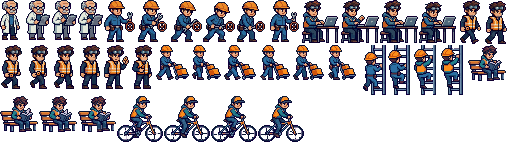
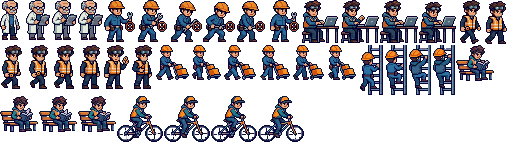
Fit the ladder, desk and bench to the street; a closed book over the library
The ladder now leans on the workshop's left pillar and stays put while he
climbs: its frames are lined up on the ladder's right rail rather than the
base (the first frame's feet stand beside the ladder, which shifted it).
His last two frames, in an orange vest and teal jacket, are repainted in
his overalls' blues, so he steps on, climbs, works at the top and comes
back down in one outfit.

The coder's desk moves in front of the control room's wall, left of the
door, inside the building's outline. The bicycle outside the library goes,
and the reader's bench takes its place.

The library's marker is always the small closed book, drawn at 1x like the
other markers, with a soft warm glow so it reads against the brick.

Claude-Session: https://claude.ai/code/session_0145MS9GtxuGoiHveWYnBXEJ

Changed region(s): [[0.6875, 0.3099, 1.0, 0.6761]]

diff --git a/src/scenes/World.js b/src/scenes/World.js
@@ -3,7 +3,7 @@ import { TUNING as T, VIEW, WORLD, PARALLAX, SCENERY, NPCS, STORAGE, BUILDING_SC
 
 // Where the "Press E" marker floats: just above head height, in front of the door.
 const MARKER_BOTTOM = WORLD.groundY - 46;
-const BOOK_MARKER_SCALE = 2;
+const BOOK_MARKER_SCALE = 1;
 import { controls, isFrozen, store } from "../state.js";
 import { currentHour, isCycling, lightAt, mix } from "../daynight.js";
 import { play } from "../audio.js";
@@ -296,18 +296,30 @@ export default class World extends Phaser.Scene {
       // project have none.
       if (project.draft) return { project, sprite, door, marker: null };
       const seen = visited.has(project.id);
-      // the library's marker is a little book, drawn on the characters' grid: 2x
+      // the library's marker is a little closed book, drawn on the characters' grid: 1x
       const [key, frame, scale] =
         project.kind === "publications"
-          ? [seen ? "book_open" : "book_closed", undefined, BOOK_MARKER_SCALE]
+          ? ["book_closed", undefined, BOOK_MARKER_SCALE]
           : ["props", project.kind === "about" ? "scroll" : seen ? "star" : "bulb", 1];
       const marker = this.add
         .image(door, MARKER_BOTTOM, key, frame)
         .setScale(scale)
         .setOrigin(0.5, 1)
         .setDepth(DEPTH.glow);
+      const bobbing = [marker];
+      if (project.kind === "publications") {
+        // the book is dark red on red brick: a soft warm glow behind it lifts it
+        // off the wall, as the bulb and star light themselves
+        const glow = this.add
+          .image(door, MARKER_BOTTOM - marker.displayHeight / 2, "glow_small")
+          .setScale(3)
+          .setAlpha(0.55)
+          .setBlendMode(Phaser.BlendModes.ADD)
+          .setDepth(DEPTH.glow - 0.1);
+        bobbing.push(glow);
+      }
       if (!this.calm) {
-        this.tweens.add({ targets: marker, y: marker.y - 4, duration: 1100, yoyo: true, repeat: -1, ease: "Sine.easeInOut" });
+        this.tweens.add({ targets: bobbing, y: "-=4", duration: 1100, yoyo: true, repeat: -1, ease: "Sine.easeInOut" });
       }
       return { project, sprite, door, marker };
     });
@@ -416,8 +428,7 @@ export default class World extends Phaser.Scene {
   openProject(project) {
     this.savePosition();
     const marker = this.buildings.find((b) => b.project === project)?.marker;
-    if (project.kind === "publications") marker?.setTexture("book_open");
-    else if (project.kind !== "about") marker?.setFrame("star");
+    if (project.kind !== "about" && project.kind !== "publications") marker?.setFrame("star");
     this.game.events.emit("open-project", project);
   }
 

diff --git a/src/config.js b/src/config.js
@@ -167,9 +167,8 @@ export const SCENERY = [
   // 2400 to 2720: solar array outside the simulation centre
   { x: 2540, sprite: "solar_panel", scale: 2 },
   { x: 2605, sprite: "lamp", scale: 2, glow: true },
-  // 2720 to 3040: parked outside the workshop
+  // 2720 to 3040: parked outside the workshop (the reader's bench is at 2920, in NPCS)
   { x: 2850, sprite: "cart", platform: true },
-  { x: 2920, sprite: "bicycle" },
   // the end of the street
   { x: 3150, sprite: "lamp", scale: 2, glow: true },
   { x: 3200, turbine: "small", scale: 2, back: true },
@@ -236,9 +235,13 @@ export const NPCS = [
       touch: "Hop up on the crates, the van or the cart. ▼ drops you back down.",
     },
   },
-  { x: 2165, sheet: "laptop", play: [0, 2, 0, 2, 1, 0, 2, 3], fps: 4 },
-  { x: 2672, sheet: "ladder", play: [0, 1], fps: 2.5 },
-  { x: 2972, sheet: "bench", play: [0, 1, 2, 3], fps: 6, rest: 2600 },
+  // at his desk against the control room's wall, left of its door
+  { x: 2050, sheet: "laptop", play: [0, 2, 0, 2, 1, 0, 2, 3], fps: 4 },
+  // the ladder leans on the workshop's left-hand pillar (x is its right rail);
+  // he steps on, climbs, works a while at the top and comes back down
+  { x: 2660, sheet: "ladder", play: [0, 1, 2, 3, 3, 3, 3, 3, 3, 2, 1, 0], fps: 2.5, rest: 2500 },
+  // reading on a bench outside the library
+  { x: 2920, sheet: "bench", play: [0, 1, 2, 3], fps: 6, rest: 2600 },
   { sheet: "bike", ride: { speed: 70, x: 300 }, play: [0, 1, 2, 3], fps: 8 },
 ];
 export const TALK_RANGE = 64; // how close you must be for an NPC to speak
@@ -270,9 +273,8 @@ export const ASSETS = {
     bg_city_lights: "bg_city_lights.png",
     bg_hills_lights: "bg_hills_lights.png",
     bg_beacons: "bg_beacons.png",
-    // the library's door marker: a closed book, open once visited
+    // the library's door marker: a closed book
     book_closed: "book/closed.png",
-    book_open: "book/open.png",
   },
   json: {
     npcs_meta: "npcs_meta.json",

diff --git a/tools/process_assets.py b/tools/process_assets.py
@@ -841,14 +841,15 @@ def books():
 # tall, so they draw at 1x next to the player). Each row is one animation, its
 # frames in equal columns. Rows: (sheet, y0, y1, columns, name, frames used,
 # anchor). The anchor is what holds still between frames: "head" for people who
-# walk, "base" for people with a desk, bench, ladder or valve.
+# walk, "base" for people with a desk, bench or valve, "rail" for the ladder
+# (its right-hand rail, so the ladder stays put while he climbs).
 NPC_ROWS = [
     ("npcs_a.jpg", 30, 246, 6, "elder", 4, "base"),
     ("npcs_a.jpg", 270, 498, 6, "valve", 6, "base"),
     ("npcs_a.jpg", 521, 753, 4, "laptop", 4, "base"),
     ("npcs_a.jpg", 772, 1009, 8, "vest", 8, "head"),
     ("npcs_b.jpg", 35, 226, 6, "trolley", 6, "base"),
-    ("npcs_b.jpg", 246, 517, 4, "ladder", 4, "base"),
+    ("npcs_b.jpg", 246, 517, 4, "ladder", 4, "rail"),
     ("npcs_b.jpg", 542, 738, 4, "bench", 4, "base"),
     ("npcs_b.jpg", 768, 1014, 4, "bike", 4, "base"),
 ]
@@ -890,14 +891,62 @@ def sprite_masked(sheet, box):
     return spr[ys.min() : ys.max() + 1, xs.min() : xs.max() + 1]
 
 
+def ladder_one_outfit(frames):
+    """The climber's last two frames have him in an orange vest and a teal
+    jacket; the first two in blue overalls. Repaint the jacket and vest (not the
+    hard hat) in the overalls' blues, matched by brightness, so he climbs in one
+    outfit."""
+    def body_blues(spr):
+        rgb = spr[..., :3].astype(int)
+        r, g, b = rgb[..., 0], rgb[..., 1], rgb[..., 2]
+        return (spr[..., 3] > 0) & (b > r + 60) & (b > g) & (g > r)  # not the ladder's greys
+
+    ref = frames[1]
+    lum = lambda c: c[..., 0] * 0.3 + c[..., 1] * 0.59 + c[..., 2] * 0.11
+    blues = ref[..., :3][body_blues(ref)].astype(float)  # every overalls pixel
+    blues = blues[np.argsort(lum(blues))]
+    out = [frames[0], frames[1]]
+    for spr in frames[2:]:
+        spr = spr.copy()
+        rgb = spr[..., :3].astype(int)
+        r, g, b = rgb[..., 0], rgb[..., 1], rgb[..., 2]
+        solid = spr[..., 3] > 0
+        orange = (r > 120) & (r > g + 20) & (g > b + 10)
+        teal = (g > r + 40) & (g >= 0.85 * b)  # green-blue jacket; the ladder and jeans are bluer
+        # the hard hat is the orange at the top: keep everything above its brim
+        hat_rows = np.where((solid & orange).any(axis=1))[0]
+        brim = hat_rows.min() + 8 if len(hat_rows) else 0
+        rows = np.arange(spr.shape[0])[:, None]
+        blue_lum = lum(blues)
+        for part in (orange, teal):
+            paint = solid & part & (rows > brim)
+            ys, xs = np.where(paint)
+            if not len(ys):
+                continue
+            # keep the part's shading: move its brightness onto the overalls'
+            # average, then take the overalls' blue nearest each pixel
+            own = lum(spr[ys, xs, :3].astype(float))
+            want = own - own.mean() + blue_lum.mean()
+            pick = np.abs(blue_lum[None, :] - want[:, None]).argmin(axis=1)
+            spr[ys, xs, :3] = blues[pick].astype(np.uint8)
+        out.append(spr)
+    return out
+
+
 def npcs():
     sprites, meta = {}, {}
     for sheet, y0, y1, cols, name, count, anchor in NPC_ROWS:
         frames = [sprite_masked(sheet, box) for box in row_boxes(sheet, y0, y1, cols)[:count]]
+        if name == "ladder":
+            frames = ladder_one_outfit(frames)
 
         # where each frame's anchor sits, measured from the frame's left edge
         def anchor_x(spr):
             solid = spr[..., 3] > 0
+            if anchor == "rail":
+                # the rightmost column that runs most of the frame's height
+                tall = np.where(solid.sum(axis=0) > 0.6 * spr.shape[0])[0]
+                return float(tall.max())
             rows = solid[: max(1, spr.shape[0] // 3)] if anchor == "head" else solid[-max(1, spr.shape[0] // 4) :]
             xs = np.where(rows.any(axis=0))[0]
             return (xs.min() + xs.max()) / 2
